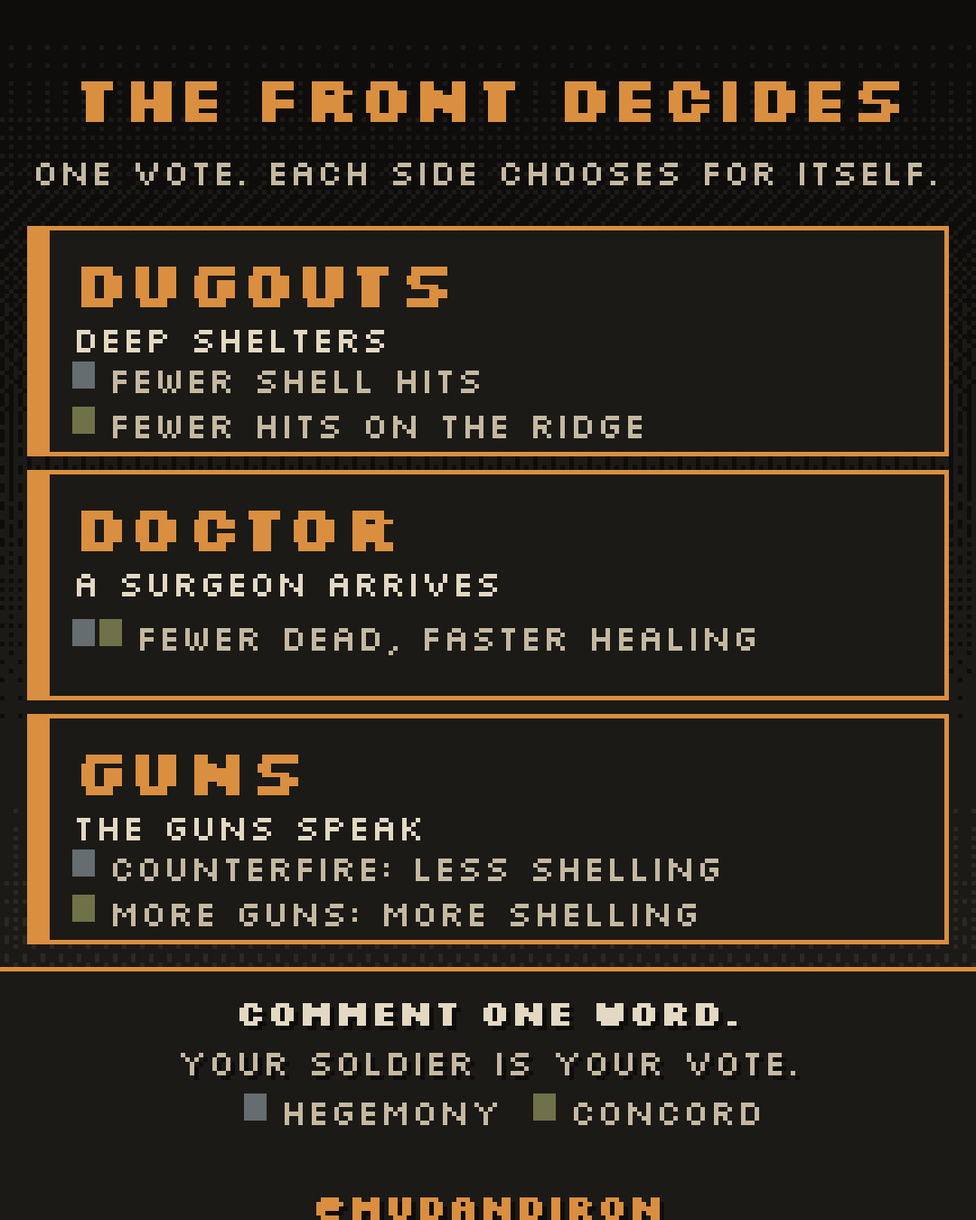
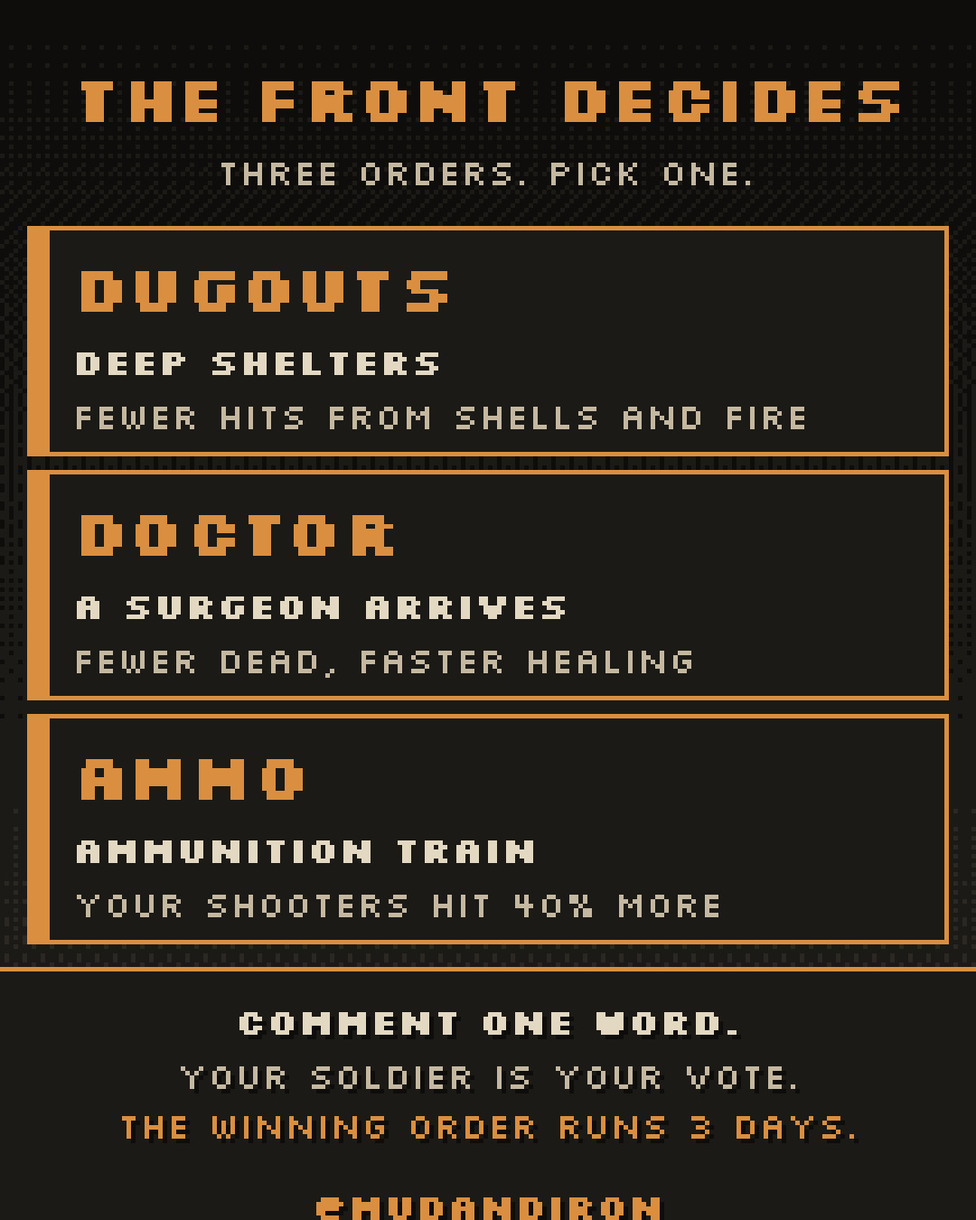
Hlasování: tři stejné volby pro všechny (DUGOUTS, DOCTOR, AMMO), stejný účinek pro obě strany, funkční kdykoli; nový post, popisek, MECHANICS.md
Claude-Session: https://claude.ai/code/session_01VWWMSwJGFZow7tBNcmKaEZ

diff --git a/marketing/promo/plan.html b/marketing/promo/plan.html
@@ -13,7 +13,7 @@ details summary{cursor:pointer;color:var(--dim);font-size:14px}pre{white-space:p
 <h1>MUD &amp; IRON · plán</h1><div class="clock" id="clock"></div>
 <div id="app"></div>
 <script>
-const D={"day":4,"items":[{"id":"carousel-intro","label":"","type":"carousel","at":null,"files":["01_the_war_never_ended.jpg","03_how_to_enlist.jpg"],"caption":"For six winters the Concord and the Hegemony have bled into the same valley of mud.","full":"For six winters the Concord and the Hegemony have bled into the same valley of mud.\nNeither will yield. Both need men.\nThey need you. 🪖\n\nSwipe → how to enlist.\nEvery follower becomes a soldier with a name, a unit and a story that is written day by day.\n\n#pixelart #ww1 #grimdark #indiegame #mudandiron","trigger":null,"published":{"at":"2026-11-08T18:24:54.080Z","link":"https://www.instagram.com/p/DffZOEhmmn9/"}},{"id":"post-sides","label":"","type":"image","at":null,"files":["02_choose_your_side.jpg"],"caption":"Choose your side. ⚔","full":"Choose your side. ⚔\n\n🩶 THE HEGEMONY\nAn iron empire that does not know the word retreat. Order, discipline, the long patience of steel.\n→ comment HEGEMONY\n\n🫒 THE CONCORD\nA ragged alliance of free provinces in khaki and flat steel helmets. They fight for the right to go home.\n→ comment CONCORD\n\nYour comment = your soldier. No switching sides.\n\n#pixelart #ww1 #chooseyourside #mudandiron","trigger":null,"published":{"at":"2026-11-08T18:25:08.656Z","link":"https://www.instagram.com/p/DffZPbFGjL1/"}},{"id":"reel-teaser","label":"","type":"reel","at":null,"files":["reel_teaser.mp4"],"caption":"The Great War ended. Here, it never did. ⚔","full":"The Great War ended. Here, it never did. ⚔\n\nMud & Iron is a war fought by Instagram. Every follower becomes a soldier on a giant pixel trench map, with a name, a story and a fate that changes every day.\n\nPick a side 👇\n🩶 HEGEMONY — iron endures\n🫒 CONCORD — together, or not at all\n\nComment your side and take your post on the front.\nFind yourself: link in bio.\n\n#pixelart #ww1 #indiegame #trenchwarfare #gamedev #pixelartgame #grimdark #interactivegame #instagramgame #mudandiron","trigger":null,"published":{"at":"2026-11-08T18:25:58.443Z","link":"https://www.instagram.com/reel/DffZTHegXil/"}},{"id":"reel-enlist","label":"","type":"reel","at":null,"files":["reel_enlist.mp4"],"caption":"This rifle has no name yet. 🪖","full":"This rifle has no name yet. 🪖\n\nComment CONCORD or HEGEMONY below and it's yours.\nWithin a few hours your soldier takes a free post on the front, with your @name on it.\n\nOne comment, one soldier. Choose carefully, there's no switching sides.\n\n#pixelart #ww1 #indiegame #enlist #gamedev #pixelartgame #mudandiron","trigger":null,"published":{"at":"2026-11-08T18:26:37.918Z","link":"https://www.instagram.com/reel/DffZXyxDcxQ/"}},{"id":"poster-generic","label":"","type":"image","at":"2026-11-09T23:00:00Z","files":["04_enlist_poster.jpg"],"caption":"YOUR FRONT NEEDS YOU. 🫵","full":"YOUR FRONT NEEDS YOU. 🫵\n\nComment CONCORD or HEGEMONY and join the war.\nLink in bio to find yourself on the front.\n\n#pixelart #ww1 #propaganda #recruitment #mudandiron","trigger":null,"published":{"at":"2026-11-09T23:04:28.750Z","link":"https://www.instagram.com/p/DfieAbiFweM/"}},{"id":"reel-sides","label":"","type":"reel","at":null,"files":["reel_sides.mp4"],"caption":"Two sides. One valley of mud. Six winters. 🩶 vs 🫒","full":"Two sides. One valley of mud. Six winters. 🩶 vs 🫒\n\nTHE HEGEMONY — an iron empire in field grey. Order. Discipline. Iron endures.\nTHE CONCORD — free provinces in khaki. They fight to go home. Together, or not at all.\n\nWhich side are you on? Comment it 👇 (it enlists you)\n\n#pixelart #ww1 #chooseyourside #indiegame #gamedev #mudandiron","trigger":null,"published":null},{"id":"poster-hegemony","label":"","type":"image","at":null,"files":["05_enlist_hegemony.jpg"],"caption":"IRON ENDURES. 🩶","full":"IRON ENDURES. 🩶\nThe Empire needs disciplined men. Comment HEGEMONY and take your post.\n\n#pixelart #ww1 #hegemony #mudandiron","trigger":null,"published":null},{"id":"reel-howto","label":"","type":"reel","at":"2026-11-12T23:00:00Z","files":["reel_howto.mp4"],"caption":"How to enlist in 10 seconds 🪖","full":"How to enlist in 10 seconds 🪖\n1⃣ Follow @mudandiron\n2⃣ Comment CONCORD or HEGEMONY under the pinned reel\n3⃣ Find your soldier on the front: link in bio\n\nEvery day the front changes. Every day you vote on what happens next.\n\n#pixelart #ww1 #howto #indiegame #mudandiron","trigger":null,"published":null},{"id":"poster-concord","label":"","type":"image","at":"2026-11-13T23:00:00Z","files":["06_enlist_concord.jpg"],"caption":"STAND TOGETHER. 🫒","full":"STAND TOGETHER. 🫒\nThe Alliance needs every hand. Comment CONCORD and take your post.\n\n#pixelart #ww1 #concord #mudandiron","trigger":null,"published":null},{"id":"reel-story","label":"","type":"reel","at":null,"files":["reel_story.mp4"],"caption":"Six winters. One valley of mud. The war that never ended. 🪖","full":"Six winters. One valley of mud. The war that never ended. 🪖\n\nMud & Iron is a war fought by Instagram followers.\nComment your side and a soldier with YOUR name takes a post on the front, for good.\n\n⚔ Every soldier gets a role, a rank and a service record written day by day\n🌑 Every midnight the front turns: wounds, promotions, the fallen\n🩸 Fall, and the next of your family picks up the rifle\n🗳 Vote in the comments and decide what happens next\n💥 500 claimed soldiers unlock the artillery\n🎖 The first 100 recruits wear the First Wave medal forever\n\nComment CONCORD or HEGEMONY below 👇\nFind yourself on the front: link in bio.\n\n#pixelart #ww1 #indiegame #trenchwarfare #gamedev #pixelartgame #grimdark #interactivegame #instagramgame #mudandiron","trigger":null,"published":{"at":"2026-11-08T23:03:41.198Z","link":"https://www.instagram.com/reel/Dff5CQYiCTl/"}},{"id":"reel-day1","label":"Day reel","type":"reel","at":"2026-11-09T13:12:12.382Z","files":["reel_day1.mp4"],"caption":"Day 1 on Verdel Ridge. 🪖","full":"Day 1 on Verdel Ridge. 🪖\nYesterday they were strangers. Tonight 32 of them hold the line: 18 for the Hegemony, 14 for the Concord.\n\n⚔ THE RACE FOR VERDEL RIDGE\nFirst side to 100 soldiers takes the heights: 3 days of artillery on the enemy, a safer week for every soldier who fought, and the title of Hero for the recruit who tips the balance.\n\n📰 Every morning at 13:00 UTC the Trench Gazette prints what happened on the line. If your name is in it, you were there.\n\nEvery friend you bring is one more rifle.\n🩶 comment HEGEMONY · 🫒 comment CONCORD\nFind yourself: link in bio.\n\n#pixelart #ww1 #indiegame #trenchwarfare #instagramgame #gamedev #mudandiron","trigger":null,"published":{"at":"2026-11-09T13:18:23.920Z","link":"https://www.instagram.com/reel/Dfha2PzFxro/"}},{"id":"story-day1-1","label":"","type":"story","at":null,"files":["story_day1_1.mp4"],"caption":"","full":"","trigger":null,"published":{"at":"2026-11-09T13:36:09.203Z","link":"https://www.instagram.com/stories/mudandiron/4026626701375125159"}},{"id":"story-day1-2","label":"","type":"story","at":null,"files":["story_day1_2.mp4"],"caption":"","full":"","trigger":null,"published":{"at":"2026-11-09T13:36:58.353Z","link":"https://www.instagram.com/stories/mudandiron/4026627117113561390"}},{"id":"victory-ridge","label":"","type":"carousel","at":null,"files":["victory_ridge_concord_1.jpg","victory_ridge_concord_2.jpg"],"caption":"🫒 VERDEL RIDGE HAS FALLEN. Now your side votes: comment FORTIFY or HOSPITAL below 👇","full":"🫒 VERDEL RIDGE HAS FALLEN. Now your side votes: comment FORTIFY or HOSPITAL below 👇\n\nThe Concord reached 100 soldiers first (100 against 94) and took the heights. The deciding rifle belonged to jro_se11, now Hero of Verdel Ridge. 🎖\n\nFor 3 days the guns on the ridge pound the Hegemony lines. For a week the high ground keeps the Concord safer. Every Concord soldier wears the ribbon.\n\n🗳 NOW EACH SIDE CHOOSES WHAT TO BUILD\nComment one word below. Your soldier is your ballot: we know which side you serve, so no need to write it.\n\n🧱 FORTIFY: sandbag parapets, fewer men hit\n🏥 HOSPITAL: a hospital dugout, 4 more beds. Without a free bed, the badly wounded wait on stretchers\n\nThe Concord vote for the Concord. The Hegemony vote for the Hegemony. Built and announced in the Trench Gazette at 13:00 UTC.\nNot enlisted yet? Comment CONCORD or HEGEMONY together with your choice.\n\n⚔ The race for Hill 304 starts now. First side to 100 new recruits takes it.\n\n#pixelart #ww1 #indiegame #trenchwarfare #instagramgame #gamedev #mudandiron","trigger":"race: ridge","published":{"at":"2026-11-11T21:57:25.552Z","link":"https://www.instagram.com/p/Dfnf63qFCNV/"}},{"id":"vote-build-d2","label":"","type":"image","at":"2026-11-10T12:41:35.178Z","files":["vote_build_2.jpg"],"caption":"🗳 YOUR SIDE BUILDS ONE. Comment one word below 👇","full":"🗳 YOUR SIDE BUILDS ONE. Comment one word below 👇\n\n🏥 HOSPITAL: a hospital dugout. 4 beds instead of 2, fewer men die of their wounds.\n🧱 SANDBAGS: higher parapets. Fewer men hit, for good.\n\nEach side votes for itself. Your soldier is your ballot: we know which side you serve, so no need to write it. A side that sends no votes builds nothing.\n\nBuilt and announced in the Trench Gazette tomorrow at 13:00 UTC.\nNot enlisted yet? Comment HEGEMONY or CONCORD together with your choice.\n\n#pixelart #ww1 #indiegame #trenchwarfare #instagramgame #gamedev #mudandiron","trigger":null,"published":{"at":"2026-11-10T12:46:15.145Z","link":"https://www.instagram.com/p/Dfj8DfWDIiT/"}},{"id":"casualties-d2","label":"","type":"carousel","at":"2026-11-10T12:34:00.000Z","files":["day2_wounded_1.jpg","day2_wounded_2.jpg","day2_wounded_3.jpg"],"caption":"🩸 DAY 2: FIRST BLOOD ON VERDEL RIDGE","full":"🩸 DAY 2: FIRST BLOOD ON VERDEL RIDGE\n\nThe big guns are still silent. The rifles are not. Five men were hit overnight.\n\n🩶 HEGEMONY: 3 hit\n• @0__freddie__0 badly wounded, shot by @ghai.gpt of the Concord. Now in a bed at the aid post.\n• @slightlyretarded69 grazed, shot by @leo.glc\n• @wolfmanantony grazed, shot by @csllgaks\n\n🫒 CONCORD: 2 hit\n• @pavla.9_ and @the_cowboii grazed by stray bullets\n\nEach side has only an aid post with 2 beds. When they fill, the badly wounded wait on stretchers in the mud. No side has a hospital yet.\n🗳 Today at 15:00 UTC each side votes what to build. Watch this account.\n\nRead the Trench Gazette and find your soldier: link in bio.\n\n#pixelart #ww1 #indiegame #trenchwarfare #instagramgame #gamedev #mudandiron","trigger":null,"published":{"at":"2026-11-10T12:35:23.458Z","link":"https://www.instagram.com/p/Dfj6z8zjtXc/"}},{"id":"reel-news","label":"","type":"reel","at":"2026-11-11T09:00:00Z","files":["reel_news.mp4"],"caption":"NEW ON THE FRONT 🪖","full":"NEW ON THE FRONT 🪖\n\n🎯 Every rifle on the line is a real player, and now every shot can hit one. Hit someone and it goes in both your service records.\n⚔ Ten trades: snipers, machine gunners, stretcher bearers, sappers, cooks… every one of them matters.\n🎖 Every day at the front makes you better: Recruit → Seasoned → Veteran → Elite.\n🏥 The badly wounded need a bed. Each side has an aid post with only two. Follow the red cross on the map.\n🗳 Each side votes what to build: HOSPITAL or SANDBAGS. Find the vote post on our profile. Voting closes today at 13:00 UTC.\n🕯 Fall, and your house fights on. Your heir takes the rifle.\n🏅 Longest alive, best shots, oldest houses: it's all in the Ranks.\n\nComment CONCORD or HEGEMONY to enlist. Find your soldier: link in bio.\n\n#pixelart #ww1 #indiegame #gamedev #trenchwarfare #instagramgame #mudandiron","trigger":null,"published":{"at":"2026-11-11T09:03:44.147Z","link":"https://www.instagram.com/reel/DfmHS-VD06p/"}},{"id":"reel-day2","label":"Day reel","type":"reel","at":"2026-11-10T17:53:17.210Z","files":["reel_day2.mp4"],"caption":"Day 2 on Verdel Ridge. 🪖","full":"Day 2 on Verdel Ridge. 🪖\nThe big guns are silent. The rifles are not.\n\n🪖 136 soldiers now hold the line: 63 for the Hegemony, 73 for the Concord.\n\n🎯 One shot from a Concord sniper. A Hegemony machine gunner, badly wounded, now in a bed at the aid post.\n🩸 Five men hit by morning: three Hegemony, two Concord.\n🏥 Each aid post has only two beds. When they fill, the badly hit wait on stretchers, in the mud.\n\n🗳 Today each side votes what to build: HOSPITAL or SANDBAGS. Comment under our vote post. Your soldier is your ballot.\n\n📰 Every morning at 13:00 UTC the Trench Gazette prints what happened on the line.\nComment CONCORD or HEGEMONY to enlist. Find your soldier: link in bio.\n\n#pixelart #ww1 #indiegame #trenchwarfare #instagramgame #gamedev #mudandiron","trigger":null,"published":{"at":"2026-11-10T17:59:33.696Z","link":"https://www.instagram.com/reel/Dfkf3GQEy_X/"}},{"id":"reel-barrage","label":"","type":"reel","at":"2026-11-10T21:00:00Z","files":["reel_barrage.mp4"],"caption":"The guns on Verdel Ridge never sleep. 💥","full":"The guns on Verdel Ridge never sleep. 💥\n\nEvery soldier who falls out there is a real player.\nThe first army to 100 soldiers takes the ridge, and the winner gets the guns: 3 days of artillery on the enemy trenches.\n\nRight now: 🫒 CONCORD 74 · 🩶 HEGEMONY 65\n\nPick your side. Bring your friends. Every recruit counts.\nComment CONCORD or HEGEMONY 👇\n\n#pixelart #ww1 #trenchwarfare #indiegame #gamedev #pixelartgame #mudandiron","trigger":null,"published":{"at":"2026-11-10T21:03:38.650Z","link":"https://www.instagram.com/reel/Dfk07JrCkrd/"}},{"id":"letters-1","label":"","type":"image","at":null,"files":["letters_1.jpg"],"caption":"LETTERS FROM THE FRONT ✉","full":"LETTERS FROM THE FRONT ✉\n\nTonight the lamps are low and the guns have gone quiet for an hour. Your soldier finally has time to write home.\n\nWrite the letter in the comments. Take your time:\n✏ What is it like in your trench?\n🏥 Who did you see carried past on a stretcher? Who was in the bed next to you?\n⛰ What would taking the ridge mean to you?\n\nLong letters welcome. Write it as your soldier, in your own words.\nThe best letters will be read on the front in the next Day reel. ✉\n\nNot enlisted yet? Comment CONCORD or HEGEMONY first, and your soldier takes a post on the line.\n\n#pixelart #ww1 #lettershome #indiegame #gamedev #trenchwarfare #mudandiron","trigger":null,"published":null},{"id":"council-ridge","label":"","type":"image","at":"2026-11-11T22:18:00Z","files":["council_1.jpg"],"caption":"FRONT COUNCIL 🗺","full":"FRONT COUNCIL 🗺\n\nVerdel Ridge has fallen. The guns are talking. Now it's your turn.\n\nWhat should your side do next? Write your idea in the comments. Big or small, serious or crazy, as long as it fits the war:\n⚔ an attack, a trap, a raid\n🏥 a way to save more men\n🧱 something to build\n📣 anything the front would remember\n\nThe most liked idea of each side becomes an order in the game, and is announced in the Trench Gazette. ❤ Like the ideas you want to see happen.\n\nYour soldier is your voter: we know which side you serve, so no need to write it. Not enlisted yet? Comment CONCORD or HEGEMONY first, and then your idea.\n\n#pixelart #ww1 #indiegame #trenchwarfare #instagramgame #gamedev #mudandiron","trigger":null,"published":{"at":"2026-11-11T22:19:01.014Z","link":"https://www.instagram.com/p/DfniZGbFPG1/"}},{"id":"story-council","label":"","type":"story","at":"2026-11-11T22:29:00Z","files":["story_council.jpg"],"caption":"","full":"","trigger":null,"published":{"at":"2026-11-11T22:29:53.019Z","link":"https://www.instagram.com/stories/mudandiron/4028345121850548348"}},{"id":"reel-ridge","label":"Day reel","type":"reel","at":"2026-11-12T10:00:00Z","files":["reel_ridge.mp4"],"caption":"VERDEL RIDGE HAS FALLEN 🎖","full":"VERDEL RIDGE HAS FALLEN 🎖\n\nThe Concord reached 100 soldiers first (100 against 94) and took the heights. The deciding rifle: Lucien Jro, a field cook, now Hero of Verdel Ridge with the Medal of Valor.\n\nFor 3 nights the guns on the ridge pound the Hegemony lines. The Concord hold the high ground for a week. 65 new soldiers joined the front since the last report.\n\n🪖 222 soldiers on the front right now: 108 Hegemony, 114 Concord.\n\n🗺 WHAT HAPPENS NEXT? The vote is in our FRONT COUNCIL post on this profile. Comment your idea for what your side should do, and like the ideas you want to see. The most liked idea of each side becomes an order.\n\nNot enlisted yet? Comment CONCORD or HEGEMONY under any post.\n\n#pixelart #ww1 #indiegame #trenchwarfare #instagramgame #gamedev #mudandiron","trigger":null,"published":{"at":"2026-11-12T10:05:26.364Z","link":"https://www.instagram.com/reel/DfozJ31j-GZ/"}},{"id":"vote-orders-d4","label":"","type":"image","at":null,"files":["vote_orders_1.jpg"],"caption":"THE FRONT DECIDES ⚔","full":"THE FRONT DECIDES ⚔\n\nVerdel Ridge is in Concord hands, and the Hegemony lines are under the guns. Now the front chooses its next order. One post, one vote, three choices.\n\nComment ONE word:\n🧱 DUGOUTS: deep shelters. The Hegemony takes fewer shell hits. The Concord takes fewer hits on the ridge.\n🩺 DOCTOR: a surgeon arrives. Fewer dead and faster healing, for either side.\n💥 GUNS: the guns speak. The Hegemony answers with counterfire, so less of its line is shelled. The Concord brings up more guns, so more of the enemy line is shelled.\n\nYour soldier is your vote: we know which side you serve, so no need to write it. Each side picks for itself, so the two sides can choose differently. Not enlisted yet? Comment CONCORD or HEGEMONY together with your choice.\n\nThe winning word of each side runs as an order for 3 days. Announced in the Trench Gazette at 13:00 UTC.\n\n#pixelart #ww1 #indiegame #trenchwarfare #instagramgame #gamedev #mudandiron","trigger":null,"published":null}],"losses":{"day":4,"sides":[{"name":"Hegemony","dead":5,"light":9,"heavy":11,"crit":6,"shell":15},{"name":"Concord","dead":1,"light":13,"heavy":4,"crit":2,"shell":0}]},"now":[{"name":"Hegemony","wounded":22,"missing":1},{"name":"Concord","wounded":19,"missing":1}],"victory":{"name":"Verdel Ridge","faction":"Concord","day":3,"to":6,"loser":"Hegemony"},"pages":"https://morgenster95.github.io/fronta","slots":{"gazette":13,"evening":23}};
+const D={"day":4,"items":[{"id":"carousel-intro","label":"","type":"carousel","at":null,"files":["01_the_war_never_ended.jpg","03_how_to_enlist.jpg"],"caption":"For six winters the Concord and the Hegemony have bled into the same valley of mud.","full":"For six winters the Concord and the Hegemony have bled into the same valley of mud.\nNeither will yield. Both need men.\nThey need you. 🪖\n\nSwipe → how to enlist.\nEvery follower becomes a soldier with a name, a unit and a story that is written day by day.\n\n#pixelart #ww1 #grimdark #indiegame #mudandiron","trigger":null,"published":{"at":"2026-11-08T18:24:54.080Z","link":"https://www.instagram.com/p/DffZOEhmmn9/"}},{"id":"post-sides","label":"","type":"image","at":null,"files":["02_choose_your_side.jpg"],"caption":"Choose your side. ⚔","full":"Choose your side. ⚔\n\n🩶 THE HEGEMONY\nAn iron empire that does not know the word retreat. Order, discipline, the long patience of steel.\n→ comment HEGEMONY\n\n🫒 THE CONCORD\nA ragged alliance of free provinces in khaki and flat steel helmets. They fight for the right to go home.\n→ comment CONCORD\n\nYour comment = your soldier. No switching sides.\n\n#pixelart #ww1 #chooseyourside #mudandiron","trigger":null,"published":{"at":"2026-11-08T18:25:08.656Z","link":"https://www.instagram.com/p/DffZPbFGjL1/"}},{"id":"reel-teaser","label":"","type":"reel","at":null,"files":["reel_teaser.mp4"],"caption":"The Great War ended. Here, it never did. ⚔","full":"The Great War ended. Here, it never did. ⚔\n\nMud & Iron is a war fought by Instagram. Every follower becomes a soldier on a giant pixel trench map, with a name, a story and a fate that changes every day.\n\nPick a side 👇\n🩶 HEGEMONY — iron endures\n🫒 CONCORD — together, or not at all\n\nComment your side and take your post on the front.\nFind yourself: link in bio.\n\n#pixelart #ww1 #indiegame #trenchwarfare #gamedev #pixelartgame #grimdark #interactivegame #instagramgame #mudandiron","trigger":null,"published":{"at":"2026-11-08T18:25:58.443Z","link":"https://www.instagram.com/reel/DffZTHegXil/"}},{"id":"reel-enlist","label":"","type":"reel","at":null,"files":["reel_enlist.mp4"],"caption":"This rifle has no name yet. 🪖","full":"This rifle has no name yet. 🪖\n\nComment CONCORD or HEGEMONY below and it's yours.\nWithin a few hours your soldier takes a free post on the front, with your @name on it.\n\nOne comment, one soldier. Choose carefully, there's no switching sides.\n\n#pixelart #ww1 #indiegame #enlist #gamedev #pixelartgame #mudandiron","trigger":null,"published":{"at":"2026-11-08T18:26:37.918Z","link":"https://www.instagram.com/reel/DffZXyxDcxQ/"}},{"id":"poster-generic","label":"","type":"image","at":"2026-11-09T23:00:00Z","files":["04_enlist_poster.jpg"],"caption":"YOUR FRONT NEEDS YOU. 🫵","full":"YOUR FRONT NEEDS YOU. 🫵\n\nComment CONCORD or HEGEMONY and join the war.\nLink in bio to find yourself on the front.\n\n#pixelart #ww1 #propaganda #recruitment #mudandiron","trigger":null,"published":{"at":"2026-11-09T23:04:28.750Z","link":"https://www.instagram.com/p/DfieAbiFweM/"}},{"id":"reel-sides","label":"","type":"reel","at":null,"files":["reel_sides.mp4"],"caption":"Two sides. One valley of mud. Six winters. 🩶 vs 🫒","full":"Two sides. One valley of mud. Six winters. 🩶 vs 🫒\n\nTHE HEGEMONY — an iron empire in field grey. Order. Discipline. Iron endures.\nTHE CONCORD — free provinces in khaki. They fight to go home. Together, or not at all.\n\nWhich side are you on? Comment it 👇 (it enlists you)\n\n#pixelart #ww1 #chooseyourside #indiegame #gamedev #mudandiron","trigger":null,"published":null},{"id":"poster-hegemony","label":"","type":"image","at":null,"files":["05_enlist_hegemony.jpg"],"caption":"IRON ENDURES. 🩶","full":"IRON ENDURES. 🩶\nThe Empire needs disciplined men. Comment HEGEMONY and take your post.\n\n#pixelart #ww1 #hegemony #mudandiron","trigger":null,"published":null},{"id":"reel-howto","label":"","type":"reel","at":"2026-11-12T23:00:00Z","files":["reel_howto.mp4"],"caption":"How to enlist in 10 seconds 🪖","full":"How to enlist in 10 seconds 🪖\n1⃣ Follow @mudandiron\n2⃣ Comment CONCORD or HEGEMONY under the pinned reel\n3⃣ Find your soldier on the front: link in bio\n\nEvery day the front changes. Every day you vote on what happens next.\n\n#pixelart #ww1 #howto #indiegame #mudandiron","trigger":null,"published":null},{"id":"poster-concord","label":"","type":"image","at":"2026-11-13T23:00:00Z","files":["06_enlist_concord.jpg"],"caption":"STAND TOGETHER. 🫒","full":"STAND TOGETHER. 🫒\nThe Alliance needs every hand. Comment CONCORD and take your post.\n\n#pixelart #ww1 #concord #mudandiron","trigger":null,"published":null},{"id":"reel-story","label":"","type":"reel","at":null,"files":["reel_story.mp4"],"caption":"Six winters. One valley of mud. The war that never ended. 🪖","full":"Six winters. One valley of mud. The war that never ended. 🪖\n\nMud & Iron is a war fought by Instagram followers.\nComment your side and a soldier with YOUR name takes a post on the front, for good.\n\n⚔ Every soldier gets a role, a rank and a service record written day by day\n🌑 Every midnight the front turns: wounds, promotions, the fallen\n🩸 Fall, and the next of your family picks up the rifle\n🗳 Vote in the comments and decide what happens next\n💥 500 claimed soldiers unlock the artillery\n🎖 The first 100 recruits wear the First Wave medal forever\n\nComment CONCORD or HEGEMONY below 👇\nFind yourself on the front: link in bio.\n\n#pixelart #ww1 #indiegame #trenchwarfare #gamedev #pixelartgame #grimdark #interactivegame #instagramgame #mudandiron","trigger":null,"published":{"at":"2026-11-08T23:03:41.198Z","link":"https://www.instagram.com/reel/Dff5CQYiCTl/"}},{"id":"reel-day1","label":"Day reel","type":"reel","at":"2026-11-09T13:12:12.382Z","files":["reel_day1.mp4"],"caption":"Day 1 on Verdel Ridge. 🪖","full":"Day 1 on Verdel Ridge. 🪖\nYesterday they were strangers. Tonight 32 of them hold the line: 18 for the Hegemony, 14 for the Concord.\n\n⚔ THE RACE FOR VERDEL RIDGE\nFirst side to 100 soldiers takes the heights: 3 days of artillery on the enemy, a safer week for every soldier who fought, and the title of Hero for the recruit who tips the balance.\n\n📰 Every morning at 13:00 UTC the Trench Gazette prints what happened on the line. If your name is in it, you were there.\n\nEvery friend you bring is one more rifle.\n🩶 comment HEGEMONY · 🫒 comment CONCORD\nFind yourself: link in bio.\n\n#pixelart #ww1 #indiegame #trenchwarfare #instagramgame #gamedev #mudandiron","trigger":null,"published":{"at":"2026-11-09T13:18:23.920Z","link":"https://www.instagram.com/reel/Dfha2PzFxro/"}},{"id":"story-day1-1","label":"","type":"story","at":null,"files":["story_day1_1.mp4"],"caption":"","full":"","trigger":null,"published":{"at":"2026-11-09T13:36:09.203Z","link":"https://www.instagram.com/stories/mudandiron/4026626701375125159"}},{"id":"story-day1-2","label":"","type":"story","at":null,"files":["story_day1_2.mp4"],"caption":"","full":"","trigger":null,"published":{"at":"2026-11-09T13:36:58.353Z","link":"https://www.instagram.com/stories/mudandiron/4026627117113561390"}},{"id":"victory-ridge","label":"","type":"carousel","at":null,"files":["victory_ridge_concord_1.jpg","victory_ridge_concord_2.jpg"],"caption":"🫒 VERDEL RIDGE HAS FALLEN. Now your side votes: comment FORTIFY or HOSPITAL below 👇","full":"🫒 VERDEL RIDGE HAS FALLEN. Now your side votes: comment FORTIFY or HOSPITAL below 👇\n\nThe Concord reached 100 soldiers first (100 against 94) and took the heights. The deciding rifle belonged to jro_se11, now Hero of Verdel Ridge. 🎖\n\nFor 3 days the guns on the ridge pound the Hegemony lines. For a week the high ground keeps the Concord safer. Every Concord soldier wears the ribbon.\n\n🗳 NOW EACH SIDE CHOOSES WHAT TO BUILD\nComment one word below. Your soldier is your ballot: we know which side you serve, so no need to write it.\n\n🧱 FORTIFY: sandbag parapets, fewer men hit\n🏥 HOSPITAL: a hospital dugout, 4 more beds. Without a free bed, the badly wounded wait on stretchers\n\nThe Concord vote for the Concord. The Hegemony vote for the Hegemony. Built and announced in the Trench Gazette at 13:00 UTC.\nNot enlisted yet? Comment CONCORD or HEGEMONY together with your choice.\n\n⚔ The race for Hill 304 starts now. First side to 100 new recruits takes it.\n\n#pixelart #ww1 #indiegame #trenchwarfare #instagramgame #gamedev #mudandiron","trigger":"race: ridge","published":{"at":"2026-11-11T21:57:25.552Z","link":"https://www.instagram.com/p/Dfnf63qFCNV/"}},{"id":"vote-build-d2","label":"","type":"image","at":"2026-11-10T12:41:35.178Z","files":["vote_build_2.jpg"],"caption":"🗳 YOUR SIDE BUILDS ONE. Comment one word below 👇","full":"🗳 YOUR SIDE BUILDS ONE. Comment one word below 👇\n\n🏥 HOSPITAL: a hospital dugout. 4 beds instead of 2, fewer men die of their wounds.\n🧱 SANDBAGS: higher parapets. Fewer men hit, for good.\n\nEach side votes for itself. Your soldier is your ballot: we know which side you serve, so no need to write it. A side that sends no votes builds nothing.\n\nBuilt and announced in the Trench Gazette tomorrow at 13:00 UTC.\nNot enlisted yet? Comment HEGEMONY or CONCORD together with your choice.\n\n#pixelart #ww1 #indiegame #trenchwarfare #instagramgame #gamedev #mudandiron","trigger":null,"published":{"at":"2026-11-10T12:46:15.145Z","link":"https://www.instagram.com/p/Dfj8DfWDIiT/"}},{"id":"casualties-d2","label":"","type":"carousel","at":"2026-11-10T12:34:00.000Z","files":["day2_wounded_1.jpg","day2_wounded_2.jpg","day2_wounded_3.jpg"],"caption":"🩸 DAY 2: FIRST BLOOD ON VERDEL RIDGE","full":"🩸 DAY 2: FIRST BLOOD ON VERDEL RIDGE\n\nThe big guns are still silent. The rifles are not. Five men were hit overnight.\n\n🩶 HEGEMONY: 3 hit\n• @0__freddie__0 badly wounded, shot by @ghai.gpt of the Concord. Now in a bed at the aid post.\n• @slightlyretarded69 grazed, shot by @leo.glc\n• @wolfmanantony grazed, shot by @csllgaks\n\n🫒 CONCORD: 2 hit\n• @pavla.9_ and @the_cowboii grazed by stray bullets\n\nEach side has only an aid post with 2 beds. When they fill, the badly wounded wait on stretchers in the mud. No side has a hospital yet.\n🗳 Today at 15:00 UTC each side votes what to build. Watch this account.\n\nRead the Trench Gazette and find your soldier: link in bio.\n\n#pixelart #ww1 #indiegame #trenchwarfare #instagramgame #gamedev #mudandiron","trigger":null,"published":{"at":"2026-11-10T12:35:23.458Z","link":"https://www.instagram.com/p/Dfj6z8zjtXc/"}},{"id":"reel-news","label":"","type":"reel","at":"2026-11-11T09:00:00Z","files":["reel_news.mp4"],"caption":"NEW ON THE FRONT 🪖","full":"NEW ON THE FRONT 🪖\n\n🎯 Every rifle on the line is a real player, and now every shot can hit one. Hit someone and it goes in both your service records.\n⚔ Ten trades: snipers, machine gunners, stretcher bearers, sappers, cooks… every one of them matters.\n🎖 Every day at the front makes you better: Recruit → Seasoned → Veteran → Elite.\n🏥 The badly wounded need a bed. Each side has an aid post with only two. Follow the red cross on the map.\n🗳 Each side votes what to build: HOSPITAL or SANDBAGS. Find the vote post on our profile. Voting closes today at 13:00 UTC.\n🕯 Fall, and your house fights on. Your heir takes the rifle.\n🏅 Longest alive, best shots, oldest houses: it's all in the Ranks.\n\nComment CONCORD or HEGEMONY to enlist. Find your soldier: link in bio.\n\n#pixelart #ww1 #indiegame #gamedev #trenchwarfare #instagramgame #mudandiron","trigger":null,"published":{"at":"2026-11-11T09:03:44.147Z","link":"https://www.instagram.com/reel/DfmHS-VD06p/"}},{"id":"reel-day2","label":"Day reel","type":"reel","at":"2026-11-10T17:53:17.210Z","files":["reel_day2.mp4"],"caption":"Day 2 on Verdel Ridge. 🪖","full":"Day 2 on Verdel Ridge. 🪖\nThe big guns are silent. The rifles are not.\n\n🪖 136 soldiers now hold the line: 63 for the Hegemony, 73 for the Concord.\n\n🎯 One shot from a Concord sniper. A Hegemony machine gunner, badly wounded, now in a bed at the aid post.\n🩸 Five men hit by morning: three Hegemony, two Concord.\n🏥 Each aid post has only two beds. When they fill, the badly hit wait on stretchers, in the mud.\n\n🗳 Today each side votes what to build: HOSPITAL or SANDBAGS. Comment under our vote post. Your soldier is your ballot.\n\n📰 Every morning at 13:00 UTC the Trench Gazette prints what happened on the line.\nComment CONCORD or HEGEMONY to enlist. Find your soldier: link in bio.\n\n#pixelart #ww1 #indiegame #trenchwarfare #instagramgame #gamedev #mudandiron","trigger":null,"published":{"at":"2026-11-10T17:59:33.696Z","link":"https://www.instagram.com/reel/Dfkf3GQEy_X/"}},{"id":"reel-barrage","label":"","type":"reel","at":"2026-11-10T21:00:00Z","files":["reel_barrage.mp4"],"caption":"The guns on Verdel Ridge never sleep. 💥","full":"The guns on Verdel Ridge never sleep. 💥\n\nEvery soldier who falls out there is a real player.\nThe first army to 100 soldiers takes the ridge, and the winner gets the guns: 3 days of artillery on the enemy trenches.\n\nRight now: 🫒 CONCORD 74 · 🩶 HEGEMONY 65\n\nPick your side. Bring your friends. Every recruit counts.\nComment CONCORD or HEGEMONY 👇\n\n#pixelart #ww1 #trenchwarfare #indiegame #gamedev #pixelartgame #mudandiron","trigger":null,"published":{"at":"2026-11-10T21:03:38.650Z","link":"https://www.instagram.com/reel/Dfk07JrCkrd/"}},{"id":"letters-1","label":"","type":"image","at":null,"files":["letters_1.jpg"],"caption":"LETTERS FROM THE FRONT ✉","full":"LETTERS FROM THE FRONT ✉\n\nTonight the lamps are low and the guns have gone quiet for an hour. Your soldier finally has time to write home.\n\nWrite the letter in the comments. Take your time:\n✏ What is it like in your trench?\n🏥 Who did you see carried past on a stretcher? Who was in the bed next to you?\n⛰ What would taking the ridge mean to you?\n\nLong letters welcome. Write it as your soldier, in your own words.\nThe best letters will be read on the front in the next Day reel. ✉\n\nNot enlisted yet? Comment CONCORD or HEGEMONY first, and your soldier takes a post on the line.\n\n#pixelart #ww1 #lettershome #indiegame #gamedev #trenchwarfare #mudandiron","trigger":null,"published":null},{"id":"council-ridge","label":"","type":"image","at":"2026-11-11T22:18:00Z","files":["council_1.jpg"],"caption":"FRONT COUNCIL 🗺","full":"FRONT COUNCIL 🗺\n\nVerdel Ridge has fallen. The guns are talking. Now it's your turn.\n\nWhat should your side do next? Write your idea in the comments. Big or small, serious or crazy, as long as it fits the war:\n⚔ an attack, a trap, a raid\n🏥 a way to save more men\n🧱 something to build\n📣 anything the front would remember\n\nThe most liked idea of each side becomes an order in the game, and is announced in the Trench Gazette. ❤ Like the ideas you want to see happen.\n\nYour soldier is your voter: we know which side you serve, so no need to write it. Not enlisted yet? Comment CONCORD or HEGEMONY first, and then your idea.\n\n#pixelart #ww1 #indiegame #trenchwarfare #instagramgame #gamedev #mudandiron","trigger":null,"published":{"at":"2026-11-11T22:19:01.014Z","link":"https://www.instagram.com/p/DfniZGbFPG1/"}},{"id":"story-council","label":"","type":"story","at":"2026-11-11T22:29:00Z","files":["story_council.jpg"],"caption":"","full":"","trigger":null,"published":{"at":"2026-11-11T22:29:53.019Z","link":"https://www.instagram.com/stories/mudandiron/4028345121850548348"}},{"id":"reel-ridge","label":"Day reel","type":"reel","at":"2026-11-12T10:00:00Z","files":["reel_ridge.mp4"],"caption":"VERDEL RIDGE HAS FALLEN 🎖","full":"VERDEL RIDGE HAS FALLEN 🎖\n\nThe Concord reached 100 soldiers first (100 against 94) and took the heights. The deciding rifle: Lucien Jro, a field cook, now Hero of Verdel Ridge with the Medal of Valor.\n\nFor 3 nights the guns on the ridge pound the Hegemony lines. The Concord hold the high ground for a week. 65 new soldiers joined the front since the last report.\n\n🪖 222 soldiers on the front right now: 108 Hegemony, 114 Concord.\n\n🗺 WHAT HAPPENS NEXT? The vote is in our FRONT COUNCIL post on this profile. Comment your idea for what your side should do, and like the ideas you want to see. The most liked idea of each side becomes an order.\n\nNot enlisted yet? Comment CONCORD or HEGEMONY under any post.\n\n#pixelart #ww1 #indiegame #trenchwarfare #instagramgame #gamedev #mudandiron","trigger":null,"published":{"at":"2026-11-12T10:05:26.364Z","link":"https://www.instagram.com/reel/DfozJ31j-GZ/"}},{"id":"vote-orders-d4","label":"","type":"image","at":null,"files":["vote_orders_1.jpg"],"caption":"THE FRONT DECIDES ⚔","full":"THE FRONT DECIDES ⚔\n\nVerdel Ridge is in Concord hands, and the Hegemony lines are under the guns. Now the front chooses its next order. One post, one vote, three choices.\n\nComment ONE word:\n🧱 DUGOUTS: deep shelters. Fewer men hit by shells and by fire.\n🩺 DOCTOR: a surgeon arrives. Fewer dead and faster healing.\n📦 AMMO: an ammunition train arrives. Your shooters hit 40% more.\n\nYour soldier is your vote: we know which side you serve, so no need to write it. Each side counts its own votes, so the two sides can choose differently. Not enlisted yet? Comment CONCORD or HEGEMONY together with your choice.\n\nThe winning word of each side runs as an order for 3 days. Announced in the Trench Gazette at 13:00 UTC.\n\n#pixelart #ww1 #indiegame #trenchwarfare #instagramgame #gamedev #mudandiron","trigger":null,"published":null}],"losses":{"day":4,"sides":[{"name":"Hegemony","dead":5,"light":9,"heavy":11,"crit":6,"shell":15},{"name":"Concord","dead":1,"light":13,"heavy":4,"crit":2,"shell":0}]},"now":[{"name":"Hegemony","wounded":22,"missing":1},{"name":"Concord","wounded":19,"missing":1}],"victory":{"name":"Verdel Ridge","faction":"Concord","day":3,"to":6,"loser":"Hegemony"},"pages":"https://morgenster95.github.io/fronta","slots":{"gazette":13,"evening":23}};
 const fmt=(d,tz)=>new Intl.DateTimeFormat('cs-CZ',{timeZone:tz,weekday:'short',day:'numeric',month:'numeric',hour:'2-digit',minute:'2-digit'}).format(d);
 const both=(d)=>fmt(d,'Europe/Prague')+' (Praha) · '+d.toISOString().slice(11,16)+' UTC';
 const left=(d)=>{let s=Math.round((d-Date.now())/60000);if(s<=0)return 'právě teď / už mělo vyjít';const h=Math.floor(s/60),m=s%60;return 'za '+(h?h+' h ':'')+m+' min'};

diff --git a/web/src/orders-fx.js b/web/src/orders-fx.js
@@ -1,7 +1,7 @@
 // Viditelné účinky rozkazů z hlasování na mapě (stav z roster.orders: { faction, kw, from, to }):
 //  • DUGOUTS  – hluboké kryty proti bombardování: u zálohy strany stojí pytlové kryty s trámovým vchodem a hlínou (jen po dobu rozkazu),
 //  • DOCTOR   – u obvaziště / nemocnice se mezi raněnými prochází lékař v bílém plášti (sprite zdravotníka, červený kříž nad hlavou).
-//  • GUNS – Hegemonie: protipalba (counter-battery), Concord: víc děl; na nepřátelské straně dopadá víc granátů (vizuálně; mechanika mění počet ostřelovaných úseků),
+//  • AMMO – víc munice: za nepřátelskou linií dopadá víc granátů (vizuálně; mechanika zvyšuje palbu vlastních střelců),
 // V dev režimu jde vyzkoušet bez hlasování: /?orders=0:DUGOUTS,0:DOCTOR  (strana:heslo).
 import { Container, Graphics, Sprite, Texture } from 'pixi.js';
 
@@ -80,7 +80,7 @@ export function initOrderFx({ world, anchor, roster, map, tex, anims, hospitals,
   });
 
   // --- COUNTERFIRE: občasné dopady za nepřátelskou linií v záběru kamery ---
-  const back = theme.factions.map((_, f) => has('GUNS', f));
+  const back = theme.factions.map((_, f) => has('AMMO', f));
   let nextShot = 0;
   let raised = false;
   return {

diff --git a/marketing/make_vote.py b/marketing/make_vote.py
@@ -15,9 +15,9 @@ ROOT = os.path.dirname(os.path.dirname(os.path.abspath(__file__)))
 PROMO = os.path.join(ROOT, "marketing", "promo")
 
 OPTIONS = [
-    ("DUGOUTS", "DEEP SHELTERS", "FEWER SHELL HITS", "FEWER HITS ON THE RIDGE"),
-    ("DOCTOR", "A SURGEON ARRIVES", "FEWER DEAD, FASTER HEALING", "FEWER DEAD, FASTER HEALING"),
-    ("GUNS", "THE GUNS SPEAK", "COUNTERFIRE: LESS SHELLING", "MORE GUNS: MORE SHELLING"),
+    ("DUGOUTS", "DEEP SHELTERS", "FEWER HITS FROM SHELLS AND FIRE"),
+    ("DOCTOR", "A SURGEON ARRIVES", "FEWER DEAD, FASTER HEALING"),
+    ("AMMO", "AMMUNITION TRAIN", "YOUR SHOOTERS HIT 40% MORE"),
 ]
 
 
@@ -27,27 +27,21 @@ def make():
     shade(im, (0, 0, W, H), strength=0.4)
     d = ImageDraw.Draw(im)
     text_c(d, W // 2, 12, "THE FRONT DECIDES", font(14, True), P["gold"])
-    text_c(d, W // 2, 32, "ONE VOTE. EACH SIDE CHOOSES FOR ITSELF.", font(8), P["pale"])
+    text_c(d, W // 2, 32, "THREE ORDERS. PICK ONE.", font(8), P["pale"])
     for name, x, spr in (("HEGEMONY", 6, "hegemony_east.png"), ("CONCORD", W // 2 + 2, "concord_west.png")):
         pass
-    for i, (kw, title, h, c) in enumerate(OPTIONS):
+    for i, (kw, title, line) in enumerate(OPTIONS):
         y = 50 + i * 54
         d.rectangle((6, y, W - 7, y + 50), fill=P["dark"], outline=P["gold"])
         d.rectangle((6, y, 10, y + 50), fill=P["gold"])
-        d.text((16, y + 3), kw, font=font(14, True), fill=P["gold"])
-        d.text((16, y + 19), title, font=font(8), fill=P["white"])
-        if h == c:  # stejný účinek pro obě strany
-            d.rectangle((16, y + 33, 20, y + 38), fill=P["steel"]); d.rectangle((22, y + 33, 26, y + 38), fill=P["olive"]); d.text((30, y + 31), h, font=font(8), fill=P["pale"])
-        else:
-            d.rectangle((16, y + 30, 20, y + 35), fill=P["steel"]); d.text((24, y + 28), h, font=font(8), fill=P["pale"])
-            d.rectangle((16, y + 40, 20, y + 45), fill=P["olive"]); d.text((24, y + 38), c, font=font(8), fill=P["pale"])
-    # legenda stran
+        d.text((16, y + 4), kw, font=font(14, True), fill=P["gold"])
+        d.text((16, y + 24), title, font=font(8, True), fill=P["white"])
+        d.text((16, y + 36), line, font=font(8), fill=P["pale"])
     d.rectangle((0, 214, W, H), fill=P["dark"])
     d.line((0, 214, W, 214), fill=P["gold"])
-    text_c(d, W // 2, 218, "COMMENT ONE WORD.", font(8, True), P["white"])
-    text_c(d, W // 2, 229, "YOUR SOLDIER IS YOUR VOTE.", font(8), P["pale"])
-    d.rectangle((54, 242, 58, 247), fill=P["steel"]); d.text((62, 240), "HEGEMONY", font=font(8), fill=P["pale"])
-    d.rectangle((118, 242, 122, 247), fill=P["olive"]); d.text((126, 240), "CONCORD", font=font(8), fill=P["pale"])
+    text_c(d, W // 2, 220, "COMMENT ONE WORD.", font(8, True), P["white"])
+    text_c(d, W // 2, 232, "YOUR SOLDIER IS YOUR VOTE.", font(8), P["pale"])
+    text_c(d, W // 2, 243, "THE WINNING ORDER RUNS 3 DAYS.", font(8), P["gold"])
     footer(d, H - 9)
     out = os.path.join(PROMO, "vote_orders_1.jpg")
     up(im, K).convert("RGB").save(out, quality=95, subsampling=0)

diff --git a/docs/MECHANICS.md b/docs/MECHANICS.md
@@ -225,9 +225,10 @@ večerní reel na to může navázat.
   Návrh nabídky po dobytí Verdel Ridge (vliv na 3 dny z dnešního stavu, `node /tmp/opts.mjs` = simulace 40 běhů): **Hegemonie** DUGOUTS (`shell` 0,7, jen proti bombardování: o 1,8 padlého a 6 raněných méně; na mapě kryty u zálohy, `web/src/orders-fx.js`), DOCTOR (`die` 0,5 + `heal` 1,5: o 1,2 padlého méně; na mapě lékař u obvaziště), COUNTERFIRE (`guns` 0,7 = protipalba, o 30 % méně ostřelovaných úseků: o ~1,8 padlého méně; na mapě dopady za nepřátelskou linií) – STORM (palba ×1,4, `exposed` 1,5) jsme zamítli: nedávalo smysl (všichni střílí víc, ale jsou víc vidět), `exposed` zůstává v enginu;
   **Concord** SNIPERS (`fire` sniper 1,8: nepřítel +1,2 padlého), VICKERS (`fire` machinegunner 1,8: +4 raněných), MINE (nepřítel +1,6 padlého a +9 raněných jednorázově). Historické vzory: Hindenburgova linie, sanitní roty, Sturmtruppen 1918; sniperské školy 1915, Machine Gun Corps 1915, Messines 1917.
 
-- **2026-11-12 · Společná nabídka tří možností s účinkem podle strany · SCHVÁLENO (pokyn uživatele: jedno hlasování, ať si vyberou z toho, co je):** `option.byFaction[f]` přebíjí účinek i text pro danou stranu (stejné heslo, jiný efekt).
-  DUGOUTS (Hegemonie `shell` 0,7, Concord `exposed` 0,6), DOCTOR (obě `die` 0,5 + `heal` 1,5), GUNS (Hegemonie `guns` 0,7 = protipalba, Concord `barrage` 1,4 = víc děl). Dřívější návrh dvou odlišných nabídek (`option.only`) uživatel nechtěl; `only` zůstává v enginu.
-  Simulace 3 dnů (padlí Hegemonie | Concord): bez voleb 7,4 | 2,4; Hegemonie DUGOUTS 5,8, DOCTOR 6,1, GUNS 5,7; Concord DOCTOR → vlastní padlí 1,7, Concord GUNS → Hegemonie 9,8 padlých (nejsilnější, jednostranná hrozba), Concord DUGOUTS → vlastní ranění 30 → 17.
+- **2026-11-12 · Hlasování o rozkazech: tři stejné volby pro všechny, stejný účinek pro obě strany, funkční kdykoli · SCHVÁLENO (pokyn uživatele):** jedno hlasování, strany počítají hlasy každá za sebe.
+  DUGOUTS (`shell` 0,7 + `exposed` 0,7: méně zásahů granáty i palbou), DOCTOR (`die` 0,5 + `heal` 1,5), AMMO (`fire` 1,4: vlastní střelci trefí o 40 % víc). Všechny fungují vždy (i bez bombardování), na obou stranách.
+  Simulace 3 dnů (padlí/ranění): Hegemonie bez voleb 7,6/55 → DUGOUTS 5,2/40, DOCTOR 6,3/55, AMMO nepříteli +9 raněných; Concord bez voleb 2,3/30 → DUGOUTS 1,9/21, DOCTOR 1,7/30, AMMO Hegemonii +1,2 padlého a +9 raněných.
+  V enginu zůstávají (nepoužité): nabídka podle strany (`option.only`, `option.byFaction`) a rozkazy `guns`, `barrage`, `mine`, `medics`, `stretchers`. Zamítnuto: STORM (nedávalo smysl), dvě odlišné nabídky pro každou stranu (uživatel chce jednu společnou).
 
 ## Dřívější rozhodnutí (shrnutí)
 - **2026-11-10 · Vyvážení v6 · NASAZENO:** zásah sám nezabíjí, zabije chybějící lůžko, nosítka nebo medik; obvaziště 2 lůžka a 6 nosítek; nemocnice jen hlasováním;
